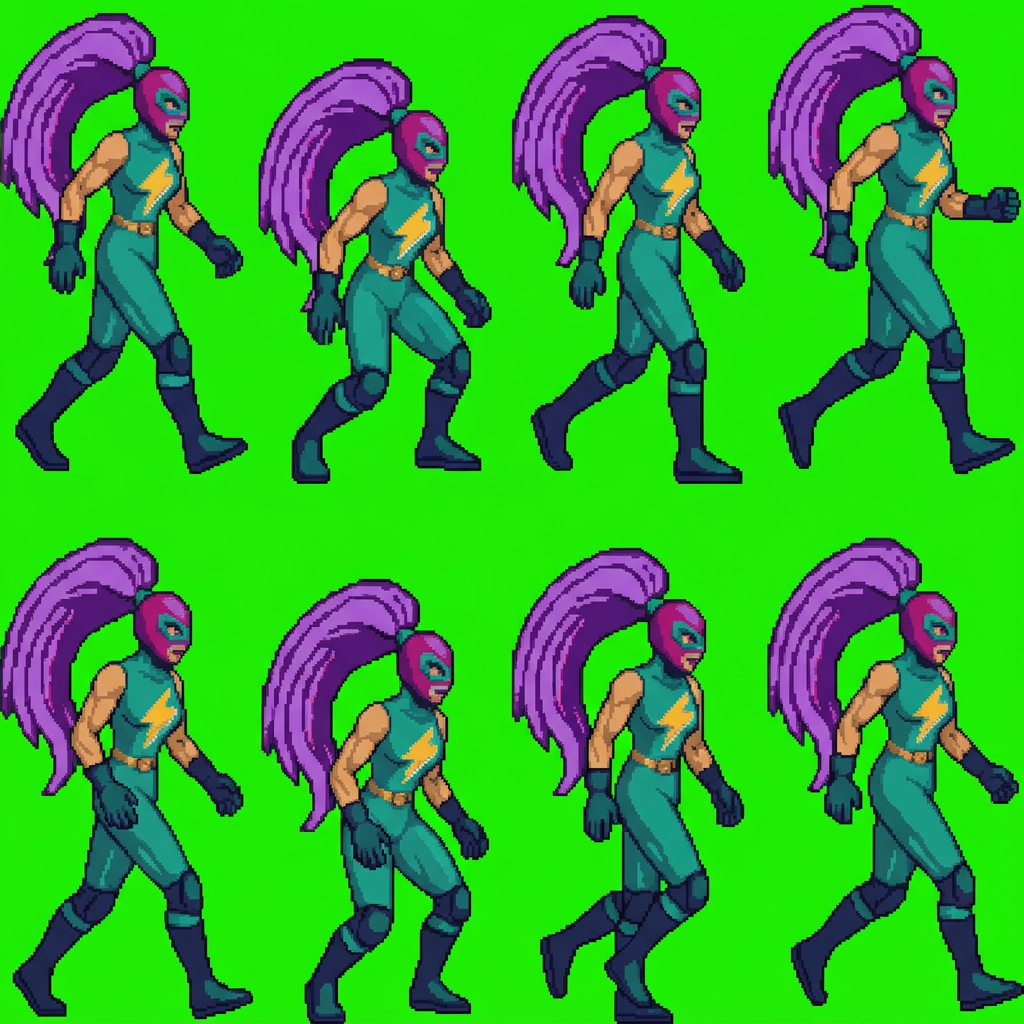
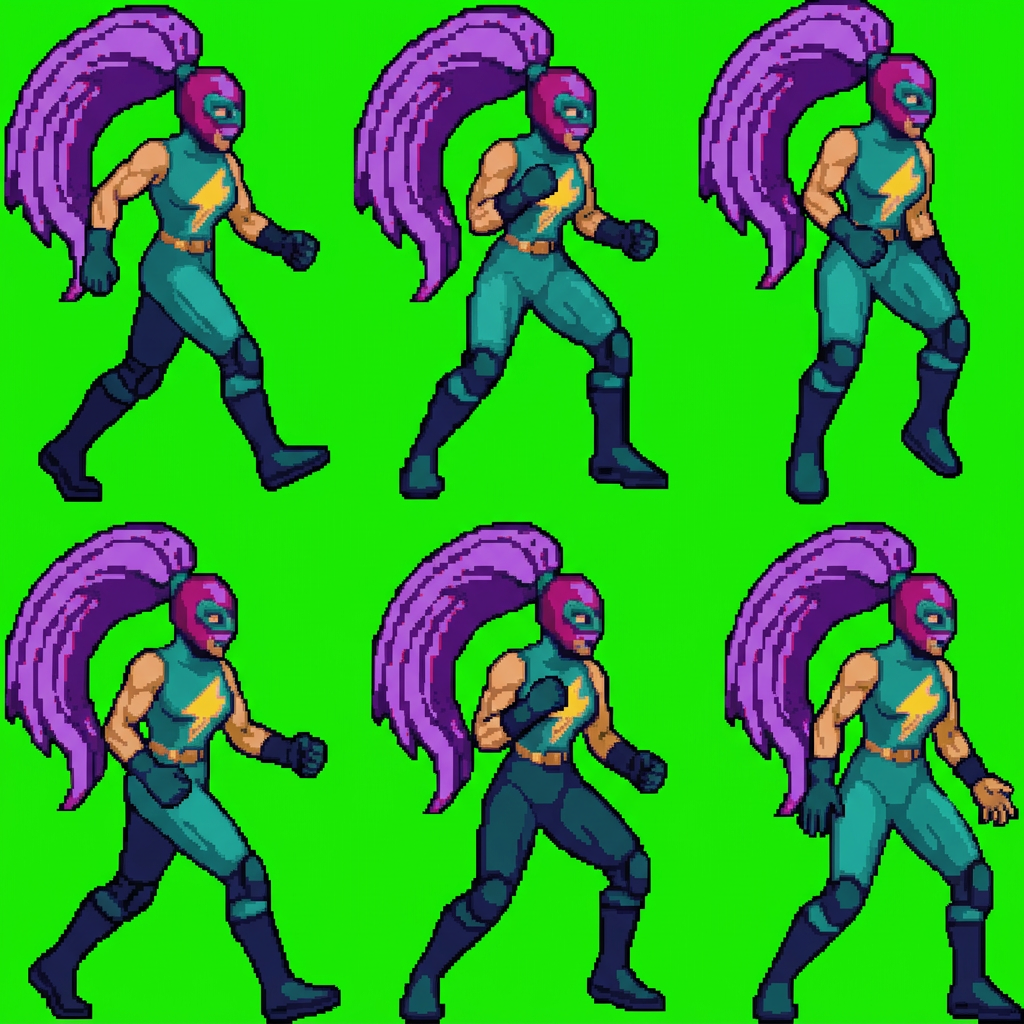
Walk de 6 poses con la tecnica de la stance y la mitad contraria por tonos
El recorte volvia sucio porque la hoja salia con la figura pequena y el
contorno de 1 px de pantalla se comia al reducir. Se vuelve a la tecnica de
la stance y se apunta en la guia:

- Hoja 3 x 2 con figura grande y la hoja aprobada como imagen 1.
- Escala por la cabeza, no por el alto total: build_sheet acepta el alto de
  mascara (30 px, el de la stance) y saca el factor de ahi.
- strip_fringe: tira el antialias del borde (mezclas con el verde que caian
  en el teal y se veian como ruido verde).
- close_outline: todo pixel opaco que toca el fondo pasa a contorno.
- opposite_half.py: la segunda mitad del walk cambiando los tonos de
  profundidad, porque el generador no dibuja el paso contrario.
- Guia: secciones de escala por cabeza, ruido verde y mitad contraria.
- preview/nueva.html: ?v=21.

diff --git a/preview/nueva.html b/preview/nueva.html
@@ -117,7 +117,7 @@
 (() => {
   // El archivo no se toca y el escenario no lo escala: 200 nativos, 1:1.
   // ?v= para que el navegador no sirva el PNG viejo de esta misma ruta.
-  window.STAGE_FIGHTER = '../voltia/nueva/stance/00.png?v=20';
+  window.STAGE_FIGHTER = '../voltia/nueva/stance/00.png?v=21';
   // Suelo en el centro del rombo dibujado (spec.floorY es 408, el borde trasero).
   window.STAGE_FLOOR_Y = 426;
   window.STAGE_FIGHTER_SCALE = 1;
@@ -202,7 +202,7 @@
     note.textContent = anim.note || '';
     for (const f of anim.frames) {
       const im = new Image();
-      im.src = '../voltia/' + anim.dir + '/' + f + '?v=20';
+      im.src = '../voltia/' + anim.dir + '/' + f + '?v=21';
       await im.decode();
       imgs.push(im);
     }
@@ -210,7 +210,7 @@
     draw();
   }
   try {
-    const guide = await (await fetch('../voltia/guide/style.json?v=20',
+    const guide = await (await fetch('../voltia/guide/style.json?v=21',
       { cache: 'no-store' })).json();
     window.__GUIDE = guide;
     const entries = Object.entries(guide.anims || {});

diff --git a/tools/build_sheet.py b/tools/build_sheet.py
@@ -12,7 +12,10 @@ Uso:
     PYTHONPATH=tools/pylibs python3 tools/build_sheet.py \
         voltia/nueva/stance/src/sheet_stance.png voltia/nueva/stance 200 240 238
 
-    argumentos: <hoja> <carpeta_salida> <ancho> <alto> <fila_del_suelo> [columnas] [filas]
+    argumentos: <hoja> <carpeta_salida> <ancho> <alto> <fila_del_suelo> [columnas] [filas] [alto_de_mascara]
+
+    Con alto_de_mascara (la stance aprobada usa 30) la escala de la hoja sale
+    de la cabeza y no del alto total de la figura, que cambia con la pose.
 
 Después de recortar, si el brazo o el guante salen manchados, se pasa
 tools/fix_gloves.py (solo en los frames revisados a mano).
@@ -176,14 +179,121 @@ def cut_figure(cell):
     return cell.crop((min(xs), min(ys), max(xs) + 1, max(ys) + 1))
 
 
-def build(sheet, outdir, cw, ch, ground, ncol=5, nrows=4, write=True):
+MASK = {(190, 25, 130), (120, 16, 80)}
+
+
+def mask_height(fig):
+    """Alto en píxeles de la masa de máscara más grande (la talla de la cabeza).
+
+    Es la referencia de escala que comparten todas las hojas: el alto total
+    de la figura cambia con la pose (piernas abiertas, rodilla arriba), pero
+    la cabeza no. La stance aprobada tiene la máscara a 30 px.
+    """
+    px = fig.load()
+    w, h = fig.size
+    seen = set()
+    best = 0
+    for y in range(h):
+        for x in range(w):
+            p = px[x, y]
+            if (x, y) in seen or not p[3] or p[:3] not in MASK:
+                continue
+            comp = [(x, y)]
+            stack = [(x, y)]
+            seen.add((x, y))
+            while stack:
+                cx, cy = stack.pop()
+                for dx, dy in ((1, 0), (-1, 0), (0, 1), (0, -1)):
+                    n = (cx + dx, cy + dy)
+                    if not (0 <= n[0] < w and 0 <= n[1] < h) or n in seen:
+                        continue
+                    q = px[n[0], n[1]]
+                    if q[3] and q[:3] in MASK:
+                        seen.add(n)
+                        comp.append(n)
+                        stack.append(n)
+            ys = [c[1] for c in comp]
+            best = max(best, max(ys) - min(ys) + 1)
+    return best
+
+
+def strip_fringe(fig, tol=26):
+    """Tira el antialias del borde: píxeles opacos que no son de la paleta.
+
+    El modelo mezcla la tinta con el verde justo en el borde. Esas mezclas no
+    son un color de la paleta, y al llevarlas a la más cercana caen a veces en
+    el teal del traje: eso es el «ruido verde» que se ve pegado a la coleta y
+    a las botas. Se hacen transparentes solo si están pegados al fondo y solo
+    si no son un color de la paleta: uno o dos píxeles de la hoja, que no se
+    notan, y después el contorno se cierra sobre el borde limpio.
+    """
+    px = fig.load()
+    w, h = fig.size
+    drop = []
+    for y in range(h):
+        for x in range(w):
+            p = px[x, y]
+            if not p[3]:
+                continue
+            near_bg = False
+            for dx, dy in ((1, 0), (-1, 0), (0, 1), (0, -1)):
+                nx, ny = x + dx, y + dy
+                if not (0 <= nx < w and 0 <= ny < h) or px[nx, ny][3] == 0:
+                    near_bg = True
+                    break
+            if not near_bg:
+                continue
+            c = p[:3]
+            d = min((c[0] - q[0]) ** 2 + (c[1] - q[1]) ** 2 + (c[2] - q[2]) ** 2
+                    for q in PALETTE)
+            if d > tol * tol:
+                drop.append((x, y))
+    for (x, y) in drop:
+        px[x, y] = (0, 0, 0, 0)
+    return len(drop)
+
+
+def close_outline(im):
+    """Tapa con contorno cualquier píxel opaco que toque el fondo.
+
+    Es la regla de la guía desde el principio («los píxeles de borde que
+    salen verdosos se tapan con el contorno. Cero halo»).
+    """
+    px = im.load()
+    w, h = im.size
+    out = []
+    for y in range(h):
+        for x in range(w):
+            p = px[x, y]
+            if not p[3] or p[:3] == PALETTE[0]:
+                continue
+            for dx, dy in ((1, 0), (-1, 0), (0, 1), (0, -1)):
+                nx, ny = x + dx, y + dy
+                if not (0 <= nx < w and 0 <= ny < h) or px[nx, ny][3] == 0:
+                    out.append((x, y))
+                    break
+    for (x, y) in out:
+        px[x, y] = PALETTE[0] + (255,)
+    return len(out)
+
+
+def build(sheet, outdir, cw, ch, ground, ncol=5, nrows=4, write=True, head=0):
     im = Image.open(sheet)
     grid = rows_of_cells(im, ncol, nrows)
     if len(grid) > nrows:
         raise SystemExit('la hoja dio %d filas, se esperaban %d' % (len(grid), nrows))
     figs = [cut_figure(grid[j][i]) for j in range(nrows) for i in range(ncol)]
+    for f in figs:
+        strip_fringe(f)
     figs = [f for f in figs if f.width > 4 and f.height > 4]   # celdas vacías
-    factor = (cw * 0.0 + 200) / figs[0].height   # 200 px = 170 cm con coleta
+    if head:
+        # una sola escala por hoja, sacada de la cabeza (no del alto total)
+        mh = mask_height(snap(figs[0]))   # la máscara se mide ya en paleta
+        if not mh:
+            raise SystemExit('la primera figura no tiene máscara: no puedo medir la cabeza')
+        factor = head / mh
+    else:
+        factor = (cw * 0.0 + 200) / figs[0].height   # 200 px = 170 cm con coleta
     out = []
     for k, fig in enumerate(figs):
         w, h = max(1, round(fig.width * factor)), max(1, round(fig.height * factor))
@@ -192,7 +302,9 @@ def build(sheet, outdir, cw, ch, ground, ncol=5, nrows=4, write=True):
         feet = [x for y in range(max(0, h - 5), h) for x in range(w) if px[x, y][3]]
         cx = sum(feet) / len(feet) if feet else w / 2
         frame = Image.new('RGBA', (cw, ch), (0, 0, 0, 0))
-        frame.alpha_composite(fig, (round(cw / 2 - cx), ground - h))
+        off = (round(cw / 2 - cx), ground - h)
+        frame.alpha_composite(fig, off)
+        close_outline(frame)
         out.append(frame)
         if write:
             os.makedirs(outdir, exist_ok=True)
@@ -208,6 +320,7 @@ if __name__ == '__main__':
     cw, ch, ground = int(args[2]), int(args[3]), int(args[4])
     ncol = int(args[5]) if len(args) > 5 else 5
     nrows = int(args[6]) if len(args) > 6 else 4
-    frames = build(sheet, outdir, cw, ch, ground, ncol=ncol, nrows=nrows)
+    head = int(args[7]) if len(args) > 7 else 0
+    frames = build(sheet, outdir, cw, ch, ground, ncol=ncol, nrows=nrows, head=head)
     print('%s -> %s: %d frames de %dx%d, suelo %d'
           % (sheet, outdir, len(frames), cw, ch, ground))

diff --git a/tools/opposite_half.py b/tools/opposite_half.py
@@ -1,0 +1,75 @@
+#!/usr/bin/env python3
+"""Segundo medio ciclo del walk: la mitad de atrás con el tono cambiado.
+
+Problema: el generador de hojas no dibuja el paso contrario. Pida lo que se
+pida, repite la misma pierna delante (comprobado con la hoja de 5 poses y
+con la de 8: la bota delantera sale siempre con el mismo tono).
+
+Solución: en un walk de perfil la silueta del paso es la misma (siempre hay
+un pie delante y otro detrás). Lo que cambia es CUÁL de las dos piernas y
+cuál de los dos brazos va delante, y eso se ve por el tono con que están
+pintados: la pierna cercana lleva el teal claro y el navy normal, la lejana
+el teal de sombra y el navy de sombra. Así que la mitad contraria se saca
+cambiando esos tonos, sin tocar la geometría, el lienzo ni el suelo.
+
+Uso:
+    PYTHONPATH=tools/pylibs python3 tools/opposite_half.py <carpeta> 0 1 2 --into 3 4 5
+    (copia el frame 0 en el 3, el 1 en el 4, el 2 en el 5, cambiando tonos)
+
+Solo se cambian tonos de material por debajo de --y (la línea del cuello),
+para no tocar máscara, visor, boca, pelo ni rayo.
+"""
+
+import os
+import sys
+
+from PIL import Image
+
+PAIRS = [
+    ((23, 147, 141), (16, 96, 104)),   # teal normal <-> teal sombra
+    ((16, 96, 104), (23, 147, 141)),
+    ((27, 34, 80), (16, 20, 54)),      # navy normal <-> navy sombra
+    ((16, 20, 54), (27, 34, 80)),
+    ((240, 176, 132), (196, 120, 84)),  # piel clara <-> piel sombra
+    ((196, 120, 84), (240, 176, 132)),
+]
+MAP = dict(PAIRS)
+KEEP = {(10, 8, 20), (250, 210, 50), (255, 255, 255), (176, 112, 36),
+        (120, 16, 80), (190, 25, 130), (60, 15, 95), (85, 21, 124),
+        (186, 104, 232), (31, 177, 164)}
+
+
+def swap(im, y0):
+    px = im.load()
+    w, h = im.size
+    for y in range(y0, h):
+        for x in range(w):
+            p = px[x, y]
+            if not p[3]:
+                continue
+            c = p[:3]
+            if c in KEEP:
+                continue
+            if c in MAP:
+                px[x, y] = MAP[c] + (255,)
+    return im
+
+
+if __name__ == '__main__':
+    argv = sys.argv[1:]
+    d = argv[0]
+    y_at = 100
+    if '--y' in argv:
+        i = argv.index('--y')
+        y_at = int(argv[i + 1])
+        del argv[i:i + 2]
+    cut = argv.index('--into')
+    src = [int(a) for a in argv[1:cut]]
+    dst = [int(a) for a in argv[cut + 1:]]
+    if len(src) != len(dst):
+        raise SystemExit('el número de frames de origen y destino debe coincidir')
+    for a, b in zip(src, dst):
+        im = Image.open(os.path.join(d, '%02d.png' % a)).convert('RGBA')
+        swap(im, y_at)
+        im.save(os.path.join(d, '%02d.png' % b))
+        print('%02d -> %02d (tonos cambiados desde y=%d)' % (a, b, y_at))

diff --git a/voltia/guide/GUIA.md b/voltia/guide/GUIA.md
@@ -158,9 +158,47 @@ sirve y se tira: es exactamente el defecto que se ve como «recorte sucio».
 El corte, siempre con el mismo comando y el mismo lienzo:
 
 ```
-PYTHONPATH=tools/pylibs python3 tools/build_sheet.py <hoja> <salida> 200 240 238 4 2
+PYTHONPATH=tools/pylibs python3 tools/build_sheet.py <hoja> <salida> 200 240 238 3 2 30
 PYTHONPATH=tools/pylibs python3 tools/centre_by_head.py <salida> --target 128
 ```
+
+El último número (**30**) es el **alto de la máscara en píxeles del frame final**,
+o sea la talla de la cabeza. Es la escala que comparten todas las hojas: el alto
+total de la figura cambia con la pose (piernas abiertas, rodilla arriba) y la
+cabeza no. La stance aprobada tiene la máscara a 30 px; cualquier hoja nueva se
+corta con esa misma medida y así no hay deriva de tamaño entre animaciones.
+
+El corte, además, hace dos cosas que costaron su intento:
+
+- **Tira el antialias del borde** (`strip_fringe`): esos píxeles son mezcla de
+  tinta con el verde, no son de la paleta, y al llevarlos al color más cercano
+  caían en el teal del traje. Ese era el «ruido verde» pegado a la coleta.
+- **Cierra el contorno** (`close_outline`): todo píxel opaco que toca el fondo
+  pasa a contorno. Regla de siempre, ahora en el script y no a mano.
+
+## La mitad contraria de un walk
+
+El generador **no dibuja el paso contrario**: se le pida como se le pida,
+repite siempre la misma pierna delante (comprobado con hojas de 3 × 2, 4 × 2 y
+5 × 4, y con una pose por imagen). Lo que sí hace bien es una mitad del ciclo con
+la figura grande.
+
+Así que la segunda mitad se saca de la primera con
+`tools/opposite_half.py`, cambiando los **tonos de profundidad** en todo lo que
+queda por debajo del cuello: teal claro ↔ teal sombra, navy ↔ navy sombra, piel
+clara ↔ piel sombra. En un walk de perfil la silueta es la misma (siempre hay un
+pie delante y otro detrás); lo que distingue un medio ciclo del otro es **qué
+pierna y qué brazo van delante**, y eso en este modelo está cantado por el tono:
+la pierna cercana va en teal claro y la lejana en teal de sombra.
+
+```
+PYTHONPATH=tools/pylibs python3 tools/opposite_half.py <carpeta> 0 1 2 --into 3 4 5 --y 100
+```
+
+Lo que **no** arregla: la silueta de la segunda mitad es la de la primera, así
+que la alternancia se lee por el sombreado y no por el contorno. Si algún día
+hace falta que el contorno también cambie, hay que dibujar a mano la pierna
+lejana cruzada por delante.
 
 `build_sheet.py` separa la hoja por los **pasillos verdes consecutivos** (no por
 el margen: si no, el margen de arriba cuenta como fila) y se queda con la **masa
@@ -197,6 +235,9 @@ reducción de paleta, cuando toque, se revisa color a color.
 
 ## Historial
 
+- 2026-10-19. Walk de 6 poses con la hoja 3 × 2: escala por la máscara (30 px),
+  segunda mitad por cambio de tonos, corte con `strip_fringe` y
+  `close_outline`. Se tiran el walk de 20, el de 8 y las pruebas de pose única.
 - 2026-10-19. Se apunta la técnica de la hoja 4 × 2: 1024 × 1024, bloques de 6,
   figura de 660 px de pantalla, imagen 1 la hoja aprobada e imagen 2 el sprite
   ampliado ×4. Medida de control: 78–83 % de contorno en el borde. El walk de
